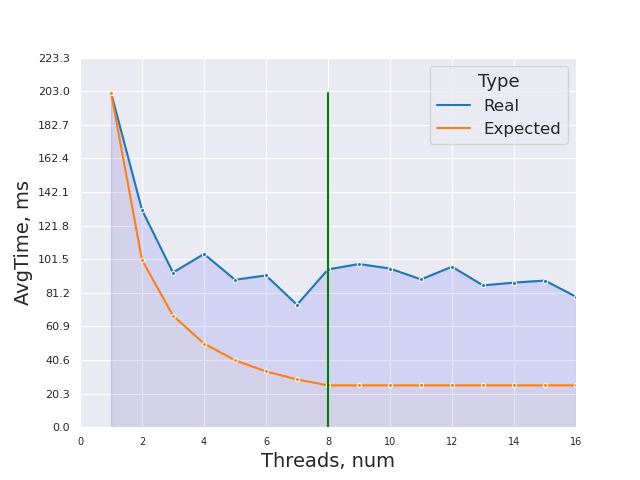
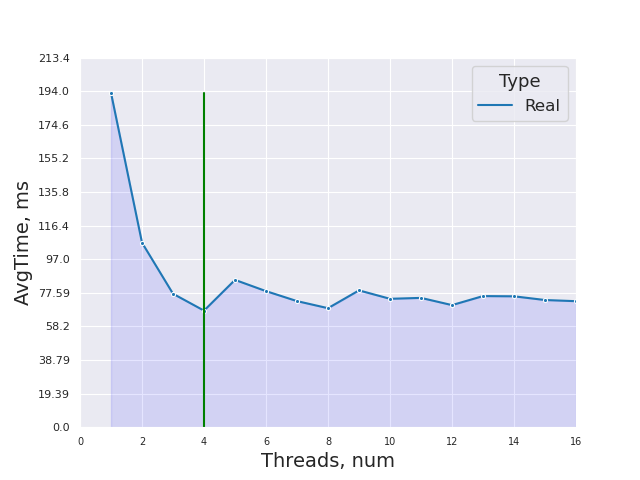
new ones

diff --git a/lab3/graphs/graph.py b/lab3/graphs/graph.py
@@ -6,7 +6,7 @@ from timing import ts, t_succ
 from sys import argv
 
 
-def get_plot(ylabel, unit, unitbound, threadbound, filename, all_ts, ymax, cores=8):
+def get_plot(ylabel, unit, unitbound, threadbound, filename, all_ts, ymax, cores=4):
     plt.clf()
     datalen = threadbound
 
@@ -56,7 +56,7 @@ def get_plot(ylabel, unit, unitbound, threadbound, filename, all_ts, ymax, cores
 
 
 threadbound = 16
-cores = 8
+cores = 4
 ts = ts[:threadbound]
 t_succ = ts[0][1]
 
@@ -66,35 +66,37 @@ ts_ds = [[x[0], x[1], "Real"] for x in ts]
 acc_ds = [[x[0], t_succ * 1000 / x[1], "Real"] for x in ts]
 eff_ds = [[x[0], x[1] / x[0], "Real"] for x in acc_ds]
 
-exp_ts = [[i, t_succ * 1000 / i, "Expected"] for i in range(1, cores + 1)] + [
-    [i, t_succ * 1000 / cores, "Expected"] for i in range(cores + 1, threadbound + 1)
-]
-exp_acc = [[i, i, "Expected"] for i in range(1, cores + 1)] + [
-    [i, cores, "Expected"] for i in range(cores + 1, threadbound + 1)
-]
-exp_eff = [[i, 1, "Expected"] for i in range(1, cores + 1)] + [
-    [i, cores / i, "Expected"] for i in range(cores + 1, threadbound + 1)
-]
+#exp_ts = [[i, t_succ * 1000 / i, "Expected"] for i in range(1, cores + 1)] + [
+#    [i, t_succ * 1000 / cores, "Expected"] for i in range(cores + 1, threadbound + 1)
+#]
+#exp_acc = [[i, i, "Expected"] for i in range(1, cores + 1)] + [
+#    [i, cores, "Expected"] for i in range(cores + 1, threadbound + 1)
+#]
+#exp_eff = [[i, 1, "Expected"] for i in range(1, cores + 1)] + [
+#    [i, cores / i, "Expected"] for i in range(cores + 1, threadbound + 1)
+#]
 
 columns = ["Threads", "AvgTime", "Type"]
 got_ts_df = pd.DataFrame(ts_ds, columns=columns)
-exp_ts_df = pd.DataFrame(exp_ts, columns=columns)
-all_ts = pd.concat([got_ts_df, exp_ts_df])
+all_ts = got_ts_df
+#exp_ts_df = pd.DataFrame(exp_ts, columns=columns)
+#all_ts = pd.concat([got_ts_df, exp_ts_df])
 unitbound = int(ceil(max([x[1] for x in ts])))
-get_plot("AvgTime", "ms", unitbound, threadbound, argv[1], all_ts, max(ts_ds[0][1], exp_ts[0][1]))
+get_plot("AvgTime", "ms", unitbound, threadbound, argv[1], all_ts, ts_ds[0][1])
 
 columns = ["Threads", "Acceleration", "Type"]
 got_acc_df = pd.DataFrame(acc_ds, columns=columns)
-exp_acc_df = pd.DataFrame(exp_acc, columns=columns)
-all_ts = pd.concat([got_acc_df, exp_acc_df])
-unitbound = max(
-    int(ceil(max([x[1] for x in acc_ds]))), int(ceil(max([x[1] for x in exp_acc])))
+#exp_acc_df = pd.DataFrame(exp_acc, columns=columns)
+#all_ts = pd.concat([got_acc_df, exp_acc_df])
+all_ts = got_acc_df
+unitbound = int(ceil(max([x[1] for x in acc_ds]))
 )
-get_plot("Acceleration", "times", unitbound, threadbound, argv[2], all_ts, max(acc_ds[cores-1][1], exp_acc[cores-1][1]))
+get_plot("Acceleration", "times", unitbound, threadbound, argv[2], all_ts, (acc_ds[cores-1][1]))
 
 columns = ["Threads", "Efficiency", "Type"]
 got_eff_df = pd.DataFrame(eff_ds, columns=columns)
-exp_eff_df = pd.DataFrame(exp_eff, columns=columns)
-all_ts = pd.concat([got_eff_df, exp_eff_df])
+#exp_eff_df = pd.DataFrame(exp_eff, columns=columns)
+#all_ts = pd.concat([got_eff_df, exp_eff_df])
+all_ts = got_eff_df
 unitbound = int(ceil(max([x[1] for x in eff_ds])))
-get_plot("Efficiency", "thread^-1", unitbound, threadbound, argv[3], all_ts, max(eff_ds[0][1], exp_eff[0][1]))
+get_plot("Efficiency", "thread^-1", unitbound, threadbound, argv[3], all_ts, (eff_ds[0][1]))

diff --git a/lab3/graphs/timing.py b/lab3/graphs/timing.py
@@ -1,2 +1,3 @@
-t_succ = 0.0485337
-ts = [(1, 0.745805), (2, 0.419264), (3, 0.307266), (4, 0.273471), (5, 0.291379), (6, 0.258122), (7, 0.226362), (8, 0.258446), (9, 0.267521), (10, 0.262087), (11, 0.26095), (12, 0.244042), (13, 0.240788), (14, 0.236877), (15, 0.229612), (16, 0.243094), ]
+t_succ = 0.76601
+
+ts = [(1, 0.696553), (2, 0.367982), (3, 0.259108), (4, 0.217546), (5, 0.263632), (6, 0.24084), (7, 0.228823), (8, 0.221984), (9, 0.235954), (10, 0.230005), (11, 0.226914), (12, 0.22346), (13, 0.2335), (14, 0.229391), (15, 0.230849), (16, 0.227623), ]
